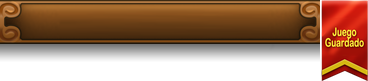
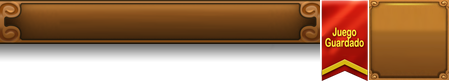
finish spanish, add peggle enhanced to more games

Changed region(s): [[0.6576, 0.0, 1.0, 1.0], [0.0, 0.0247, 0.0598, 0.2469], [0.0, 0.2963, 0.0598, 0.4938]]

diff --git a/Bookworm/OptionsDialog.cs b/Bookworm/OptionsDialog.cs
@@ -132,10 +132,9 @@ namespace Sexy
             mCheckForUpdatesLabel = MakeLabel("");
             mCheckForUpdatesSwitch = MakeSwitch(SWITCH_CHECK_FOR_UPDATES);
             mTexturesLabel = MakeLabel("");
-            mTexturesButton = new BarButton(LINK_TEXTURES, this, theApp, AtlasResourceBase.IMAGE_GROUP11_03);
-            mTexturesButton.SetFont(Res.FONT_COOPER_OUTLINED);
-            mTexturesButton.SetColor(0, Dialogoid.GREEN_BUTTON_COLOR);
-            mTexturesButton.SetColor(1, new Color(255, 255, 255, 255));
+            // Port: drawn as a switch's ON track, its label in the switches' ON / OFF lettering.
+            mTexturesButton = new BarButton(LINK_TEXTURES, this, theApp, AtlasResourceBase.IMAGE_GROUP1_20, AtlasResourceBase.IMAGE_GROUP1_22);
+            mTexturesButton.SetFont(Res.FONT_ARIAL_LARGE);
             AddWidget(mTexturesButton);
             mRestartLabel = new LabelWidget("", Res.FONT_DEFINITIONS_SMALL);
             mRestartLabel.mClip = false;
@@ -519,42 +518,68 @@ namespace Sexy
     /// Port addition: a button on one of the dialogs' bars (green or red), sized to its label: the bar's ends
     /// keep their shape (scaled to the button's height) and its middle stretches.
     /// </summary>
+    /// <summary>
+    /// Port: a button drawn as a switch's green ON track (a little less tall than a switch, its rounded ends
+    /// kept, stretched to the label), its label in uppercase in the switches' ON / OFF lettering.
+    /// </summary>
     public class BarButton : BookWormButton
     {
+        /// <summary>The track's height against a switch's (the art's own height).</summary>
+        private const float SQUISH = 1f;
+
+        private static readonly Color TEXT_COLOR = new Color(255, 255, 255, 255);
+
+        private static readonly Color PRESSED_COLOR = new Color(190, 190, 190, 255);
+
         private readonly Image mBar;
 
-        public BarButton(int theId, ButtonListener theListener, BookWormApp theApp, Image theBar) : base(theId, theListener, theApp)
+        private readonly Image mLabelArt;
+
+        /// <summary>theBar the switch's ON track; theLabelArt its OFF label art (for the lettering's size).</summary>
+        public BarButton(int theId, ButtonListener theListener, BookWormApp theApp, Image theBar, Image theLabelArt) : base(theId, theListener, theApp)
         {
             mBar = theBar;
-            mLabelJustify = 0;
+            mLabelArt = theLabelArt;
             mClip = false;
         }
 
-        /// <summary>The label with room around it: half its height above and below, the bar's ends beside it.</summary>
-        public void SizeToLabel()
+        private float CapHeight()
         {
-            int aHeight = mFont.GetHeight() * 3 / 2;
-            int aWidth = mFont.StringWidth(mLabel) + 2 * EndWidth(aHeight) + mFont.GetHeight() / 2;
-            Resize(mX + mWidth - aWidth, mY, aWidth, aHeight);
+            return Switch.LabelCapHeight(mLabelArt) * SQUISH;
         }
 
-        /// <summary>The width of the bar's ends (their scrolls: a quarter of its height) at this height.</summary>
-        private int EndWidth(int theHeight)
+        /// <summary>The label with the track's rounded ends (half its height each) and as much again around it.</summary>
+        public void SizeToLabel()
         {
-            return theHeight / 4 + 1;
+            int aHeight = (int)System.Math.Round(mBar.mHeight * SQUISH);
+            int aWidth = (int)System.Math.Ceiling(Switch.CapTextWidth(mFont, mLabel.ToUpperInvariant(), CapHeight())) + aHeight * 3 / 2;
+            aWidth = System.Math.Max(aWidth, aHeight * 2);
+            Resize(mX + mWidth - aWidth, mY, aWidth, aHeight);
         }
 
         public override void Draw(Graphics g)
         {
-            if (!mBtnNoDraw && mBar != null)
+            if (mBtnNoDraw || mBar == null)
             {
-                int anEnd = mBar.mHeight / 4 + 1;
-                int aDestEnd = System.Math.Min(EndWidth(mHeight), mWidth / 2);
-                g.DrawImage(mBar, new TRect(0, 0, aDestEnd, mHeight), new TRect(0, 0, anEnd, mBar.mHeight));
-                g.DrawImage(mBar, new TRect(aDestEnd, 0, mWidth - 2 * aDestEnd, mHeight), new TRect(anEnd, 0, mBar.mWidth - 2 * anEnd, mBar.mHeight));
-                g.DrawImage(mBar, new TRect(mWidth - aDestEnd, 0, aDestEnd, mHeight), new TRect(mBar.mWidth - anEnd, 0, anEnd, mBar.mHeight));
+                return;
             }
-            base.Draw(g);
+            bool aPressed = mIsOver && mIsDown && !mDisabled;
+            if (aPressed)
+            {
+                g.SetColorizeImages(true);
+                g.SetColor(PRESSED_COLOR);
+            }
+            // The ends (half the art's height, its rounded caps) scaled with the height; the middle stretched.
+            int anEnd = mBar.mHeight / 2;
+            int aDestEnd = System.Math.Min(mHeight / 2, mWidth / 2);
+            g.DrawImage(mBar, new TRect(0, 0, aDestEnd, mHeight), new TRect(0, 0, anEnd, mBar.mHeight));
+            g.DrawImage(mBar, new TRect(aDestEnd, 0, mWidth - 2 * aDestEnd, mHeight), new TRect(anEnd, 0, mBar.mWidth - 2 * anEnd, mBar.mHeight));
+            g.DrawImage(mBar, new TRect(mWidth - aDestEnd, 0, aDestEnd, mHeight), new TRect(mBar.mWidth - anEnd, 0, anEnd, mBar.mHeight));
+            g.SetColorizeImages(false);
+            if (mFont != null && !string.IsNullOrEmpty(mLabel))
+            {
+                Switch.DrawCapText(g, mFont, mLabel.ToUpperInvariant(), mWidth / 2f, mHeight / 2f, CapHeight(), aPressed ? PRESSED_COLOR : TEXT_COLOR);
+            }
         }
     }
 }

diff --git a/Bookworm/BookshelfWidget.cs b/Bookworm/BookshelfWidget.cs
@@ -145,8 +145,65 @@ namespace Sexy
             {
                 DrawPillars(g, aPos, 0, 0);
             }
-            g.DrawImage(AtlasResourceBase.IMAGE_GROUP7_04, mShelfTopPos.mX, mShelfTopPos.mY);
+            DrawBonusList(g);
             g.DrawImage(AtlasResourceBase.IMAGE_GROUP7_05, mSignPos.mX, mSignPos.mY);
+        }
+
+        /// <summary>Port (Spanish): the bonus list square without its English text (AtlasResourceBase localized art).</summary>
+        private Image mBlankBonusList;
+
+        private bool mBlankBonusListLoaded;
+
+        /// <summary>The "BONUS BOOK LIST" art's gold, top to bottom.</summary>
+        private static readonly Color BONUS_LIST_TOP = new Color(250, 236, 120, 255);
+
+        private static readonly Color BONUS_LIST_BOTTOM = new Color(222, 160, 15, 255);
+
+        /// <summary>
+        /// IMAGE_GROUP7_04, the "BONUS BOOK LIST" square over the collection shelf. Port: in Spanish, the same
+        /// square without its text (made at the atlas's scale) with "LIBROS BONUS" drawn over it.
+        /// </summary>
+        private void DrawBonusList(Graphics g)
+        {
+            Image anImage = AtlasResourceBase.IMAGE_GROUP7_04;
+            if (Localization.IsSpanish && !mBlankBonusListLoaded)
+            {
+                mBlankBonusList = AtlasResourceBase.GetLocalizedImage(mApp, anImage.mWidth / 80, AtlasResourceBase.LOCALIZED_BLANK_BONUS_LIST);
+                mBlankBonusListLoaded = true;
+            }
+            if (!Localization.IsSpanish || mBlankBonusList == null)
+            {
+                g.DrawImage(anImage, mShelfTopPos.mX, mShelfTopPos.mY);
+                return;
+            }
+            int aWidth = anImage.mWidth;
+            int aHeight = anImage.mHeight;
+            g.DrawImage(mBlankBonusList, mShelfTopPos.mX, mShelfTopPos.mY, aWidth, aHeight);
+            GradientText.DrawFitted(g, Res.FONT_COOPER_OUTLINED, new[] { "LIBROS", "BONUS" }, mShelfTopPos.mX + aWidth / 2, mShelfTopPos.mY + aHeight / 2,
+                aWidth * 84 / 100, aHeight * 64 / 100, BONUS_LIST_TOP, BONUS_LIST_BOTTOM, GradientText.BANNER_OUTLINE);
+        }
+
+        /// <summary>The "Complete" art's green (IMAGE_GROUP31_24), top to bottom, and its dark outline.</summary>
+        private static readonly Color COMPLETE_TOP = new Color(205, 238, 40, 255);
+
+        private static readonly Color COMPLETE_BOTTOM = new Color(105, 170, 0, 255);
+
+        private static readonly Color COMPLETE_OUTLINE = new Color(40, 70, 0, 255);
+
+        /// <summary>
+        /// IMAGE_GROUP31_24, the green "Complete" under the percent, at (theX, theY). Port: in Spanish, "Completado"
+        /// in the same green, centred on it (a little wider than the art if need be: the sign is wider).
+        /// </summary>
+        private static void DrawCompleteText(Graphics g, int theX, int theY)
+        {
+            Image anImage = AtlasResourceBase.IMAGE_GROUP31_24;
+            if (!Localization.IsSpanish)
+            {
+                g.DrawImage(anImage, theX, theY);
+                return;
+            }
+            GradientText.DrawFitted(g, Res.FONT_COOPER_OUTLINED, new[] { "Completado" }, theX + anImage.mWidth / 2, theY + anImage.mHeight / 2,
+                anImage.mWidth * 110 / 100, anImage.mHeight * 70 / 100, COMPLETE_TOP, COMPLETE_BOTTOM, COMPLETE_OUTLINE);
         }
 
         /// <summary>
@@ -192,7 +249,7 @@ namespace Sexy
                 g.DrawImage(AtlasResourceBase.IMAGE_GROUP31_03, mSignPos.mX + aPos.At(0xd0), mSignPos.mY + aPos.At(0xd4));
                 return;
             }
-            g.DrawImage(AtlasResourceBase.IMAGE_GROUP31_24, mSignPos.mX + aPos.At(0xc8), mSignPos.mY + aPos.At(0xcc));
+            DrawCompleteText(g, mSignPos.mX + aPos.At(0xc8), mSignPos.mY + aPos.At(0xcc));
             Font aFont = Res.FONT_ARIAL_LARGE;
             g.SetFont(aFont);
             g.SetColor(PERCENT_COLOR);

diff --git a/Bookworm/AtlasResources.cs b/Bookworm/AtlasResources.cs
@@ -80,26 +80,31 @@ namespace Sexy
         /// Port (translations): the art made for the other languages, one sheet per art scale (images/localized.png
         /// at the iPhone's, localizedR at 2x, localizediPadR at 4x; GradientText.LoadScaled): the banners' frame
         /// without its English title (the Word History and More Games banners), and the Continue ribbon with
-        /// "Juego Guardado" (IMAGE_GROUP11_16's Spanish). Loaded on first use, once per scale; null without it.
+        /// "Juego Guardado" (IMAGE_GROUP11_16's Spanish), and the Books tab's bonus list square without its "BONUS
+        /// BOOK LIST" (IMAGE_GROUP7_04). Loaded on first use, once per scale; null without it.
         /// </summary>
         public const int LOCALIZED_BLANK_BANNER = 0;
 
         public const int LOCALIZED_SAVED_GAME_ES = 1;
 
+        public const int LOCALIZED_BLANK_BONUS_LIST = 2;
+
+        private const int LOCALIZED_COUNT = 3;
+
         private static readonly System.Collections.Generic.Dictionary<int, Image[]> mLocalizedImages =
             new System.Collections.Generic.Dictionary<int, Image[]>();
 
-        /// <summary>Each scale's sheet: the blank banner, then the ribbon right of it (1 pixel apart).</summary>
+        /// <summary>Each scale's sheet: the blank banner, then the ribbon and the square right of it (1 pixel apart).</summary>
         private static int[,] LocalizedTable(int theScale)
         {
             switch (theScale)
             {
             case 4:
-                return new int[,] { { 0, 0, 0, 1280, 236, 1, 1, 0, 0, 0, 0 }, { 1, 1281, 0, 188, 324, 1, 1, 0, 0, 0, 0 } };
+                return new int[,] { { 0, 0, 0, 1280, 236, 1, 1, 0, 0, 0, 0 }, { 1, 1281, 0, 188, 324, 1, 1, 0, 0, 0, 0 }, { 2, 1470, 0, 320, 320, 1, 1, 0, 0, 0, 0 } };
             case 2:
-                return new int[,] { { 0, 0, 0, 640, 118, 1, 1, 0, 0, 0, 0 }, { 1, 641, 0, 94, 162, 1, 1, 0, 0, 0, 0 } };
+                return new int[,] { { 0, 0, 0, 640, 118, 1, 1, 0, 0, 0, 0 }, { 1, 641, 0, 94, 162, 1, 1, 0, 0, 0, 0 }, { 2, 736, 0, 160, 160, 1, 1, 0, 0, 0, 0 } };
             default:
-                return new int[,] { { 0, 0, 0, 320, 62, 1, 1, 0, 0, 0, 0 }, { 1, 321, 0, 47, 81, 1, 1, 0, 0, 0, 0 } };
+                return new int[,] { { 0, 0, 0, 320, 62, 1, 1, 0, 0, 0, 0 }, { 1, 321, 0, 47, 81, 1, 1, 0, 0, 0, 0 }, { 2, 369, 0, 80, 80, 1, 1, 0, 0, 0, 0 } };
             }
         }
 
@@ -109,7 +114,7 @@ namespace Sexy
             int aScale = theScale >= 4 ? 4 : theScale >= 2 ? 2 : 1;
             if (!mLocalizedImages.TryGetValue(aScale, out Image[] anImages))
             {
-                anImages = new Image[2];
+                anImages = new Image[LOCALIZED_COUNT];
                 Image aSheet = GradientText.LoadScaled(theApp, "images/localized", aScale);
                 if (aSheet != null)
                 {

diff --git a/Bookworm/ShelfWidget.cs b/Bookworm/ShelfWidget.cs
@@ -292,6 +292,41 @@ namespace Sexy
             Resize(0, 0, aShelf.mWidth, aShelf.mHeight * mRects.Length);
         }
 
+        /// <summary>
+        /// The labels' art (IMAGE_GROUP31_01's cels, iPad Retina rows of 192): the number above row NUMBER_ROWS,
+        /// "letter words" below; "letras" goes where those were, in their gold (white to yellow).
+        /// </summary>
+        private const int LABEL_ROWS = 192;
+
+        private const int NUMBER_ROWS = 102;
+
+        private const int LETRAS_BASELINE = 144;
+
+        private const float LETRAS_SCALE = 0.7f;
+
+        private static readonly Color LETRAS_TOP = new Color(255, 248, 190, 255);
+
+        private static readonly Color LETRAS_BOTTOM = new Color(240, 200, 10, 255);
+
+        /// <summary>
+        /// The shelf's label, cel theIndex of IMAGE_GROUP31_01 ("3 letter words" to "12 letter words"). Port: in
+        /// Spanish, only the cel's number, with "letras" drawn under it.
+        /// </summary>
+        private static void DrawLengthLabel(Graphics g, int theX, int theY, int theIndex)
+        {
+            Image anImage = AtlasResourceBase.IMAGE_GROUP31_01;
+            if (!Localization.IsSpanish)
+            {
+                g.DrawImageCel(anImage, theX, theY, theIndex);
+                return;
+            }
+            int aCelWidth = anImage.GetCelWidth();
+            int aCelHeight = anImage.GetCelHeight();
+            g.DrawImage(anImage, theX, theY, new TRect(theIndex * aCelWidth, 0, aCelWidth, aCelHeight * NUMBER_ROWS / LABEL_ROWS));
+            GradientText.Draw(g, Res.FONT_ARIAL_MEDIUM_OUTLINED, new[] { "letras" }, theX + aCelWidth / 2, theY + aCelHeight * LETRAS_BASELINE / LABEL_ROWS,
+                LETRAS_TOP, LETRAS_BOTTOM, null, 0, LETRAS_SCALE);
+        }
+
         /// <summary>0x3a044.</summary>
         public override void Draw(Graphics g)
         {
@@ -302,7 +337,7 @@ namespace Sexy
             {
                 TRect aRect = mRects[i];
                 g.DrawImage(AtlasResourceBase.IMAGE_GROUP7_01, aRect.mX, aRect.mY);
-                g.DrawImageCel(AtlasResourceBase.IMAGE_GROUP31_01, aPos.At(0xa8) + aRect.mX, aPos.At(0xac) + aRect.mY, i);
+                DrawLengthLabel(g, aPos.At(0xa8) + aRect.mX, aPos.At(0xac) + aRect.mY, i);
                 int aCount = mApp.mCollectionator.mWordCounts[i];
                 int aX = aPos.At(0xb0);
                 int aBase = aPos.At(0xb4);

diff --git a/Bookworm/Switch.cs b/Bookworm/Switch.cs
@@ -71,14 +71,37 @@ namespace Sexy
         /// </summary>
         private void DrawLabelText(Graphics g, string theText, Image theLabel, int theX, int theY, Color theColor)
         {
-            Font aFont = mTextFont;
             float aCap = mOffLabel.mHeight * LABEL_CAP_HEIGHT;
+            DrawCapText(g, mTextFont, theText, theX + theLabel.mWidth / 2f, theY + theLabel.mHeight / 2f, aCap, theColor);
+        }
+
+        /// <summary>Port: the cap height of the ON / OFF names for a switch whose OFF label art is theLabel.</summary>
+        public static float LabelCapHeight(Image theLabel)
+        {
+            return theLabel.mHeight * LABEL_CAP_HEIGHT;
+        }
+
+        /// <summary>Port: the ink width of theText drawn by DrawCapText at theCap.</summary>
+        public static float CapTextWidth(Font theFont, string theText, float theCap)
+        {
+            MeasureInk(theFont, theText, out int anInkLeft, out int anInkRight);
+            return (anInkRight - anInkLeft) * theCap / System.Math.Max(1, MeasureCapHeight(theFont)) * TEXT_STRETCH_X;
+        }
+
+        /// <summary>
+        /// Port: theText in the switches' ON / OFF style (theFont stretched to the art's proportions), its ink
+        /// centred on theCenterX, its capitals theCap high and centred on theCenterY.
+        /// </summary>
+        public static void DrawCapText(Graphics g, Font theFont, string theText, float theCenterX, float theCenterY, float theCap, Color theColor)
+        {
+            Font aFont = theFont;
+            float aCap = theCap;
             MeasureInk(aFont, theText, out int anInkLeft, out int anInkRight);
             int aFontCap = MeasureCapHeight(aFont);
             float aScaleY = aCap / System.Math.Max(1, aFontCap);
             float aScaleX = aScaleY * TEXT_STRETCH_X;
-            float aCenterX = theX + theLabel.mWidth / 2f;
-            float aBaseline = theY + (theLabel.mHeight + aCap) / 2f;
+            float aCenterX = theCenterX;
+            float aBaseline = theCenterY + aCap / 2f;
             // Drawn at the origin of the scale with its ink centred on it, then scaled out from there.
             int aDrawX = (int)System.Math.Round(aCenterX - (anInkLeft + anInkRight) / 2f);
             int aDrawY = (int)System.Math.Round(aBaseline);

diff --git a/Bookworm/Board.Input.cs b/Bookworm/Board.Input.cs
@@ -7,6 +7,10 @@ namespace Sexy
         /// <summary>How the current touch is being used (0x1dc): 0 picking, 1 released, 2 dragging, 3 on the last tile.</summary>
         public int mTouchMode;
 
+        /// <summary>Port (Submit by Dragging): the current touch has dragged. mTouchMode stays 2 after a drag
+        /// ends, so it can't tell a later tap from a drag.</summary>
+        private bool mTouchDragged;
+
         /// <summary>The word being spelled (0x214).</summary>
         public WordScore mWordScore;
 
@@ -205,6 +209,7 @@ namespace Sexy
             x = FromShown(x);
             y = FromShown(y);
             base.MouseDown(x, y, theClickCount);
+            mTouchDragged = false;
             if (mState != STATE_PLAYING)
             {
                 return;
@@ -273,10 +278,10 @@ namespace Sexy
                 {
                     mTouchMode = 1;
                 }
-                else if (mTouchMode == 2 && mApp.mSubmitByDragging && mSelection.Count > 0 && mWordScore.mValid)
+                else if (mTouchMode == 2 && mTouchDragged && mApp.mSubmitByDragging && mSelection.Count > 0 && mWordScore.mValid)
                 {
                     // Port (Submit by Dragging): a touch that dragged (from any tile of the word, or a new one)
-                    // submits the word when let go if it is valid; a tap never does.
+                    // submits the word when let go if it is valid; a tap never does, even after an earlier drag.
                     Piece aLast = mSelection[mSelection.Count - 1];
                     SubmitWord((int)(aLast.mX + mTileWidth / 2), (int)(aLast.mY + mTileHeight / 2));
                 }
@@ -301,6 +306,7 @@ namespace Sexy
                 return;
             }
             mTouchMode = 2;
+            mTouchDragged = true;
             if (IsAdjacent(aLast, aTarget) && !aTarget.mRemoving)
             {
                 SelectPiece(aTarget);

diff --git a/Bookworm/GradientText.cs b/Bookworm/GradientText.cs
@@ -119,6 +119,29 @@ namespace Sexy
             return theApp.GetImage(thePath + aSuffix, false);
         }
 
+        /// <summary>A capital's height against the font's ascent (estimated: the fonts' metrics hold no cap height).</summary>
+        private const float CAP_RATIO = 0.72f;
+
+        /// <summary>
+        /// Draws the lines centred on (theCenterX, theCenterY) by their capitals (the first line's cap top to the
+        /// last's baseline), shrunk to fit theMaxWidth and theMaxHeight (never grown). theLinePitch is the baseline
+        /// step before scaling (0: 1.25 capitals).
+        /// </summary>
+        public static void DrawFitted(Graphics g, Font theFont, string[] theLines, int theCenterX, int theCenterY, int theMaxWidth, int theMaxHeight, Color theTop, Color theBottom, Color? theOutline = null, int theLinePitch = 0)
+        {
+            float aCap = theFont.GetAscent() * CAP_RATIO;
+            int aPitch = theLinePitch > 0 ? theLinePitch : (int)System.Math.Round(aCap * 1.25f);
+            int aWidest = 1;
+            foreach (string aLine in theLines)
+            {
+                aWidest = System.Math.Max(aWidest, theFont.StringWidth(aLine));
+            }
+            float aBlock = aCap + aPitch * (theLines.Length - 1);
+            float aScale = System.Math.Min(1f, System.Math.Min(theMaxWidth / (float)aWidest, theMaxHeight / aBlock));
+            int aFirstBaseline = theCenterY + (int)System.Math.Round(aScale * (aCap - aPitch * (theLines.Length - 1)) / 2f);
+            Draw(g, theFont, theLines, theCenterX, aFirstBaseline, theTop, theBottom, theOutline, aPitch, aScale);
+        }
+
         /// <summary>A banner's title: one line, centred on a banner drawn at (theX, theY), theWidth wide.</summary>
         public static void DrawBannerTitle(Graphics g, string theTitle, int theX, int theY, int theWidth)
         {
